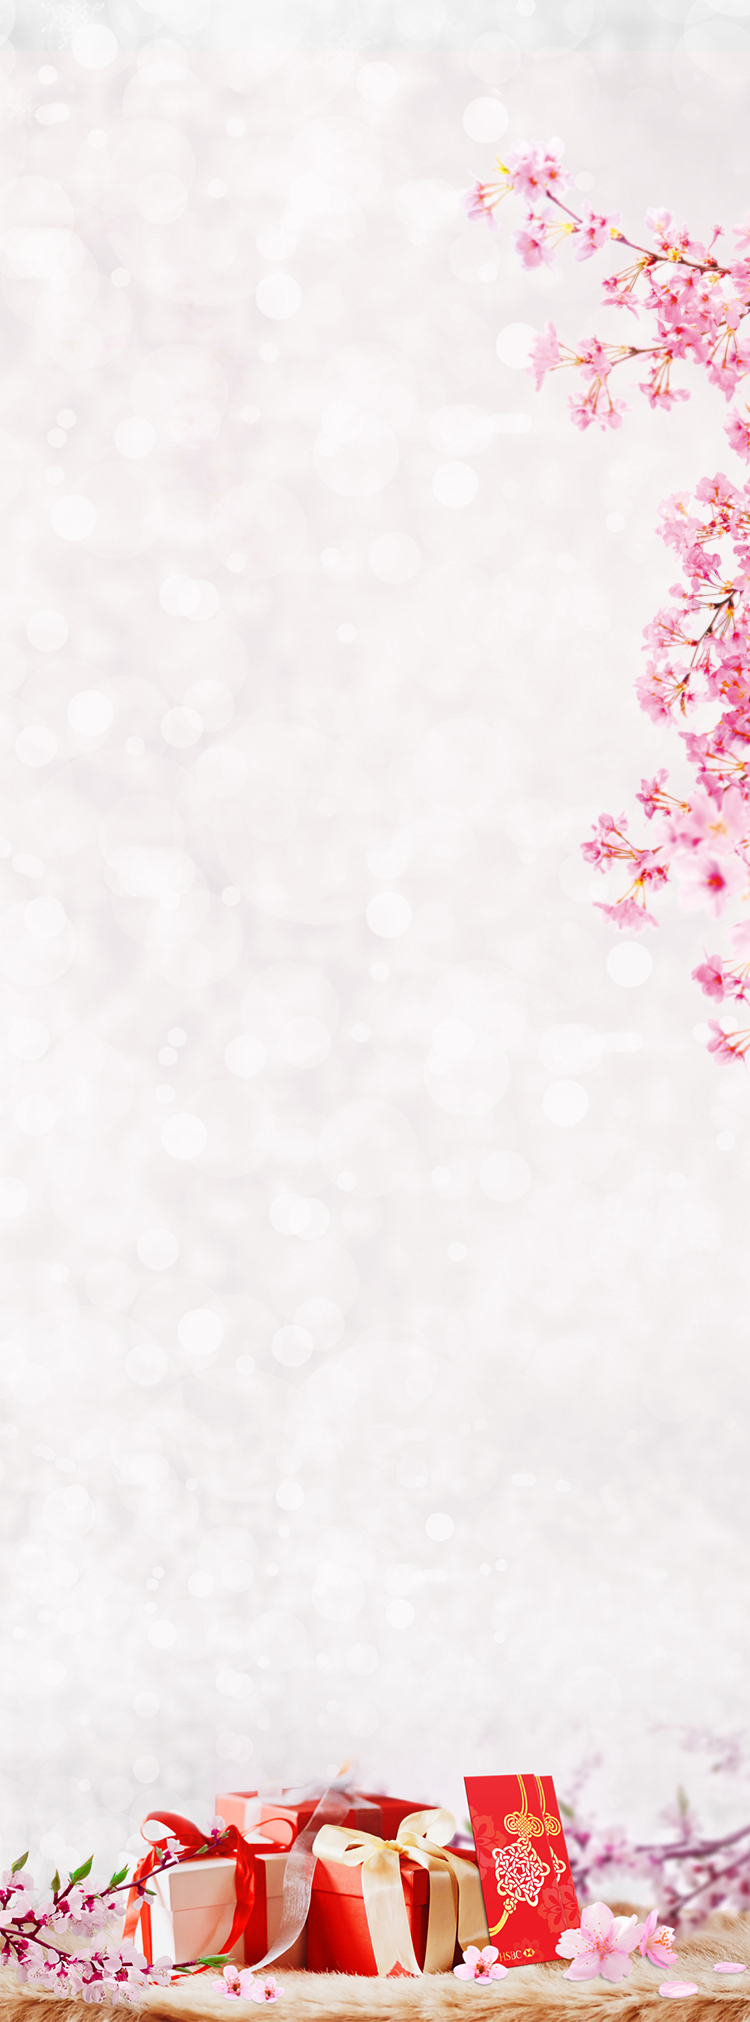
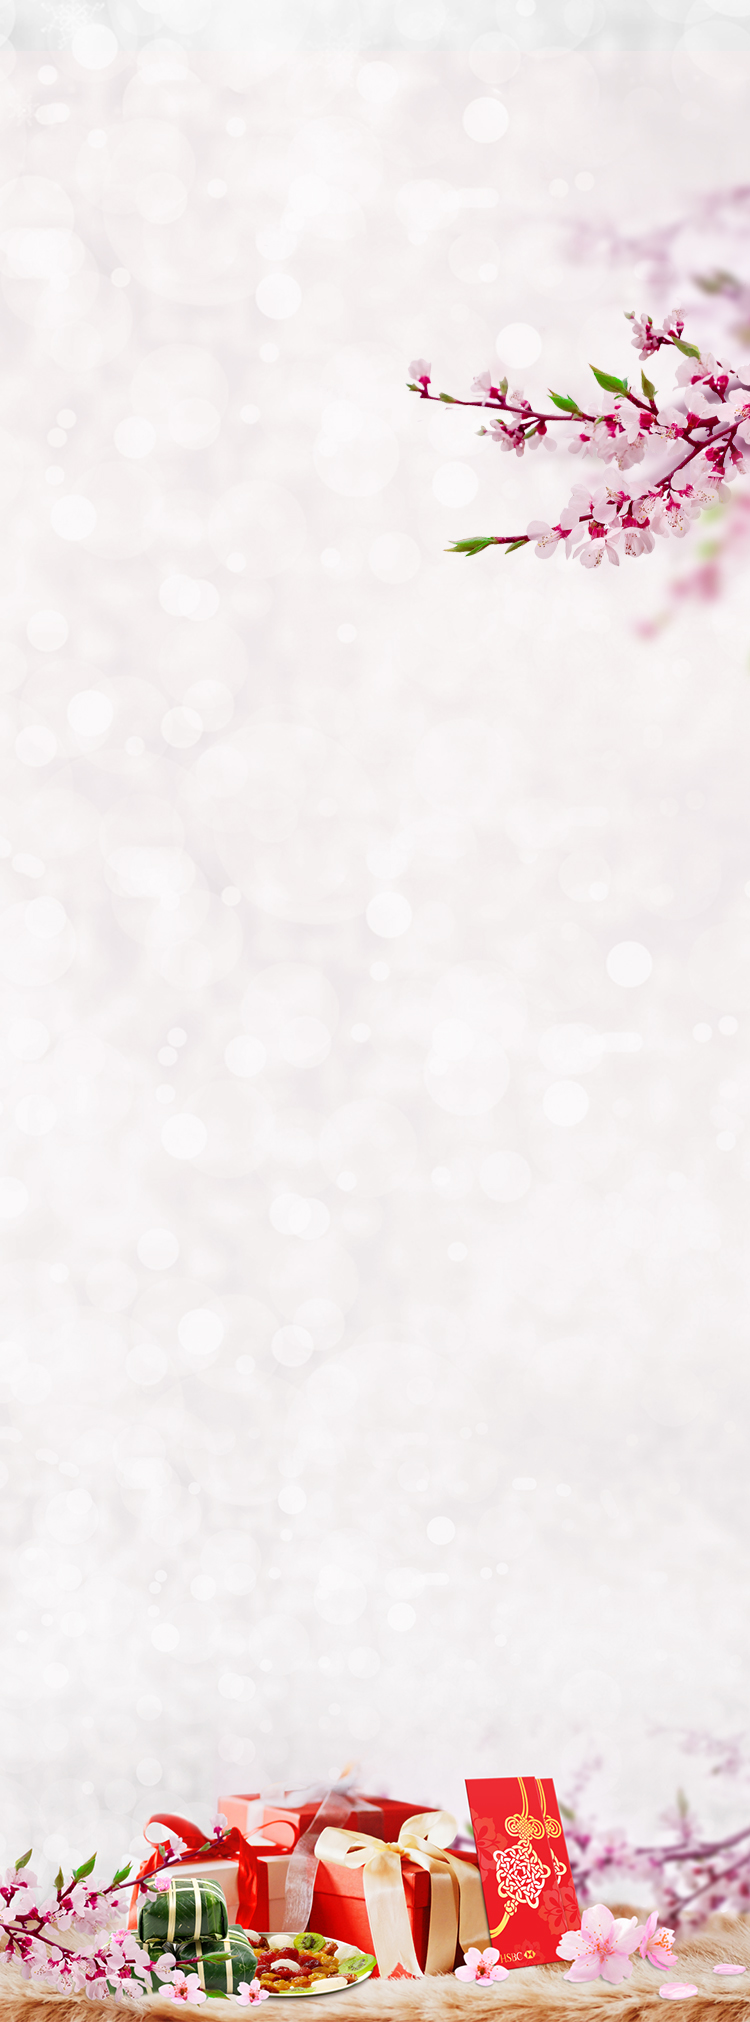
a

Changed region(s): [[0.0, 0.8724, 1.0, 1.0], [0.552, 0.0623, 1.0, 0.5297]]

diff --git a/css/style.css b/css/style.css
@@ -269,7 +269,7 @@ a.color-red:hover {
 }
 
 .redpacket-calculator-detail {
-    background-image: url('../images/pc/gift_1170x1580.jpg?time=123');
+    background-image: url('../images/pc/gift_1170x1218.jpg?time=123');
     background-position: center bottom;
     background-size: 100% auto;
     background-color: #ffebf0;
@@ -377,7 +377,7 @@ a.color-red:hover {
         padding-left: 25px;
         padding-right: 25px;
         padding-top: 40px;
-        background-image: url('../images/pc/gift_1170x1580.jpg');
+        background-image: url('../images/pc/gift_1170x1218.jpg');
         min-height: 940px;
     }
 
@@ -528,30 +528,11 @@ a.color-red:hover {
 @media (max-width: 460px) {
     .redpacket-calculator-detail {
         background-image: url('../images/mobile/gift_750x2360.jpg');
-        min-height: 920px;
+        min-height: 1050px;
         background-size: 100% auto;
         padding: 25px 20px;
+        padding-top: 40px;
     }
-
-    .redpacket-calculator-detail.en {
-        padding-top: 30px;
-    }
-
-    .redpacket-calculator-detail .space {
-        display: none;
-    }
-
-    .redpacket-calculator-factors {
-        padding-bottom: 20px;
-    }
-
-    .budget-factor {
-        margin-bottom: 7px;
-    }
-
-/*    .redpacket-calculator-detail.en {
-        padding-top: 20px;
-    }*/
 
     .redpacket-calculator-detail .redpacket-calculator-result-note {
         font-size: 0.85;
@@ -568,20 +549,17 @@ a.color-red:hover {
 @media (max-width: 375px) {
     .redpacket-calculator-detail {
         background-image: url('../images/mobile/gift_750x2360.jpg');
-        min-height: 890px;
-        padding: 25px 20px;
+        min-height: 940px;
     }
 
     .redpacket-calculator-detail .space {
         display: none;
     }
 
-    .redpacket-calculator-detail {
-        padding-top: 20px;
-    }
-
     .redpacket-calculator-detail.result-detail {
         min-height: 1180px;
+        padding-top: 20px;
+
     }
 
     .redpacket-calculator-factors {
